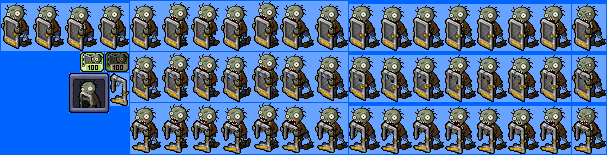
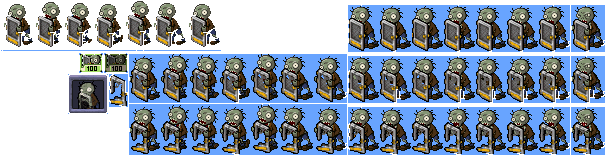
varios

diff --git a/lib/components/zombies/zombie_door_component.dart b/lib/components/zombies/zombie_door_component.dart
@@ -5,25 +5,26 @@ import 'package:flame/flame.dart';
 import 'package:plantsvszombie/utils/create_animation_by_limit.dart';
 import 'package:plantsvszombie/components/zombies/zombie_component.dart';
 
-class ZombieConeComponent extends ZombieComponent {
-  ZombieConeComponent({required position}) : super(position) {
+class ZombieDoorComponent extends ZombieComponent {
+  ZombieDoorComponent({required position}) : super(position) {
     // spriteSheetWidth = 29.2;
-    spriteSheetWidth = 27.6;
-    spriteSheetHeight = 55.5;
+    spriteSheetWidth = 31.4;
+    spriteSheetHeight = 52;
     size = Vector2(spriteSheetWidth, spriteSheetHeight);
-    speed = 15;
   }
 
   @override
   Future<void>? onLoad() async {
-    final spriteImage = await Flame.images.load('zombieCone.png');
+    final spriteImage = await Flame.images.load('zombieDoor.png');
 
     final spriteSheet = SpriteSheet(
         image: spriteImage,
         srcSize: Vector2(spriteSheetWidth, spriteSheetHeight));
 
     walkingAnimation = spriteSheet.createAnimationByLimit(
-        xInit: 0, yInit: 5, step: 6, sizeX: 19, stepTime: .2);
+        xInit: 0, yInit: 0, step: 6, sizeX: 19, stepTime: .2);
+    // walkingAnimation = spriteSheet.createAnimationByLimit(
+    //     xInit: 0, yInit: 5, step: 6, sizeX: 19, stepTime: .2);
 
     animation = walkingAnimation;
 

diff --git a/lib/main.dart b/lib/main.dart
@@ -4,9 +4,8 @@ import 'package:flame/game.dart';
 import 'package:flame/input.dart';
 import 'package:flutter/material.dart';
 import 'package:plantsvszombie/components/plants/cactus_component.dart';
-import 'package:plantsvszombie/components/plants/peashooter_component.dart';
-import 'package:plantsvszombie/components/zombies/zombie_component.dart';
 import 'package:plantsvszombie/components/zombies/zombie_cone_component.dart';
+import 'package:plantsvszombie/components/zombies/zombie_door_component.dart';
 import 'package:plantsvszombie/maps/tile_map_component.dart';
 
 class MyGame extends FlameGame
@@ -35,7 +34,8 @@ class MyGame extends FlameGame
     //     add(ZombieComponent(mapSize: background.tiledMap.size));
     //   },
     // );
-    add(ZombieConeComponent(position: Vector2(1200, 50)));
+    add(ZombieConeComponent(position: Vector2(1200, 48 - 20)));
+    add(ZombieDoorComponent(position: Vector2(1200, 96 - 20)));
     add(ScreenHitbox());
 
     //return super.onLoad();

diff --git a/lib/components/zombies/zombie_component.dart b/lib/components/zombies/zombie_component.dart
@@ -1,17 +1,8 @@
 import 'package:flame/collisions.dart';
 import 'package:flame/components.dart';
 
-import 'package:flame/sprite.dart';
-import 'package:plantsvszombie/components/plants/plant.dart';
-
-import 'package:plantsvszombie/utils/create_animation_by_limit.dart';
-
-import 'dart:math';
-
 class ZombieComponent extends SpriteAnimationComponent {
   late SpriteAnimation walkingAnimation;
-
-  // double elapsedTime = 0;
 
   double speed = 12;
 
@@ -26,6 +17,7 @@ class ZombieComponent extends SpriteAnimationComponent {
 
   @override
   void update(double dt) {
+    position.add(Vector2(-dt * speed, 0));
     super.update(dt);
   }
 }
